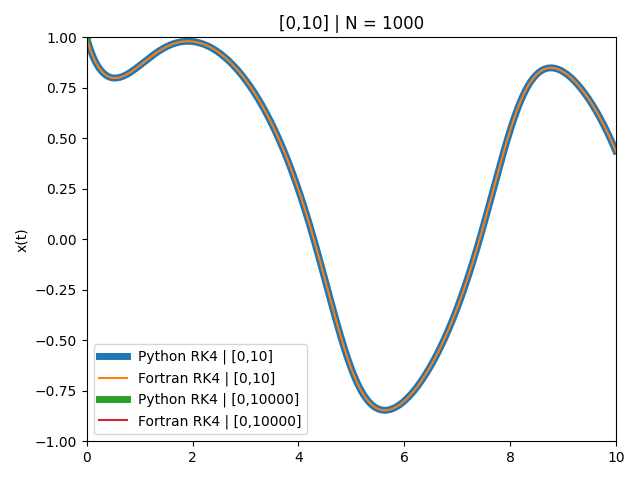
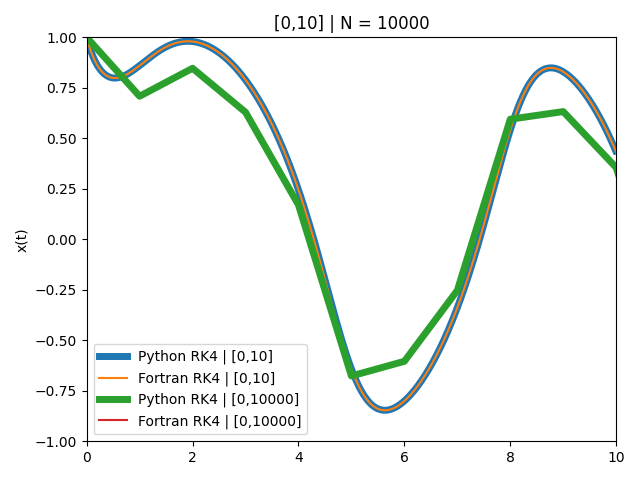
HW5 finished

diff --git a/HW5/hw5.py b/HW5/hw5.py
@@ -115,9 +115,12 @@ for t in tpoints:
     x += (k1+2*k2+2*k3+k4)/6
 
 start = time.time()
+
 a1 = 0.0
 b1 = 10000.0
-N1 = 1000
+#N1 = 100
+#N1 = 1000
+N1 = 10000
 h1 = (b1-a1)/N1
 
 tpoints1 = np.arange(a1,b1,h1)
@@ -131,9 +134,9 @@ for t1 in tpoints1:
     k3 = h1*func(x1+0.5*k2, t1+0.5*h1)
     k4 = h1*func(x1+k3, t1+h1)
     x1 += (k1+2*k2+2*k3+k4)/6
+
 stop = time.time()
 total = stop-start
-
 print(f"Python took {total} seconds to run")
 
 tFort4,xFort4 = np.loadtxt("prob3-1.dat", unpack=True, skiprows = 1)
@@ -147,8 +150,53 @@ plt.xlim(0, 10)
 plt.ylim(-1,1)
 plt.ylabel("x(t)")
 plt.legend()
-plt.title(f"[0,10] | N = {N}")
+plt.title(f"[0,10] | N = {N1}")
 
 plt.tight_layout()
 plt.savefig("prob3.png")
 plt.close()
+
+
+# Problem 4 Answer(s) --------------------------------------------------------------------------------
+
+'''
+a) 
+With n = 100, Python took 0.0006099079132080078 seconds to compute
+Fortran took 0.001120 seconds to run, 0.047572 seconds to compile
+
+With n = 10000, Python took 0.05193497657775879 seconds to compute
+Fortran took 0.018692 seconds to run, 0.048676 seconds to compile
+
+
+F or P  |  n  | compile  |   run
+-----------------------------------
+Fortran |  10 | 0.053046 | 0.000919
+Python  |  10 |    N/A   | 0.000229
+
+Fortran |  50 | 0.052727 | 0.001335
+Python  |  50 |    N/A   | 0.000342
+
+Fortran | 5000| 0.043258 | 0.004944
+Python  | 5000|    N/A   | 0.029223
+
+Fortran | 300 | 0.053662 | 0.001180
+Python  | 300 |    N/A   | 0.001588
+
+
+It looks like Python is faster for n < 300 (ish) and Fortran is faster for n >= 300 (ish)
+
+'''
+
+# Problem 5 --------------------------------------------------------------------------------
+
+'''
+chmod changes the permissions/rights of a file or directory 
+
+the +x parameter allows the file/directory to execute, so it can run whatever it does
+
+Python files are just text files that can be ran with the interpreter, which then executes instructions on the CPU
+
+Fortran (and other compiled languages) are compiled directly into binary executables, and big surprise, executables have the right to execute :D.
+
+'''
+
